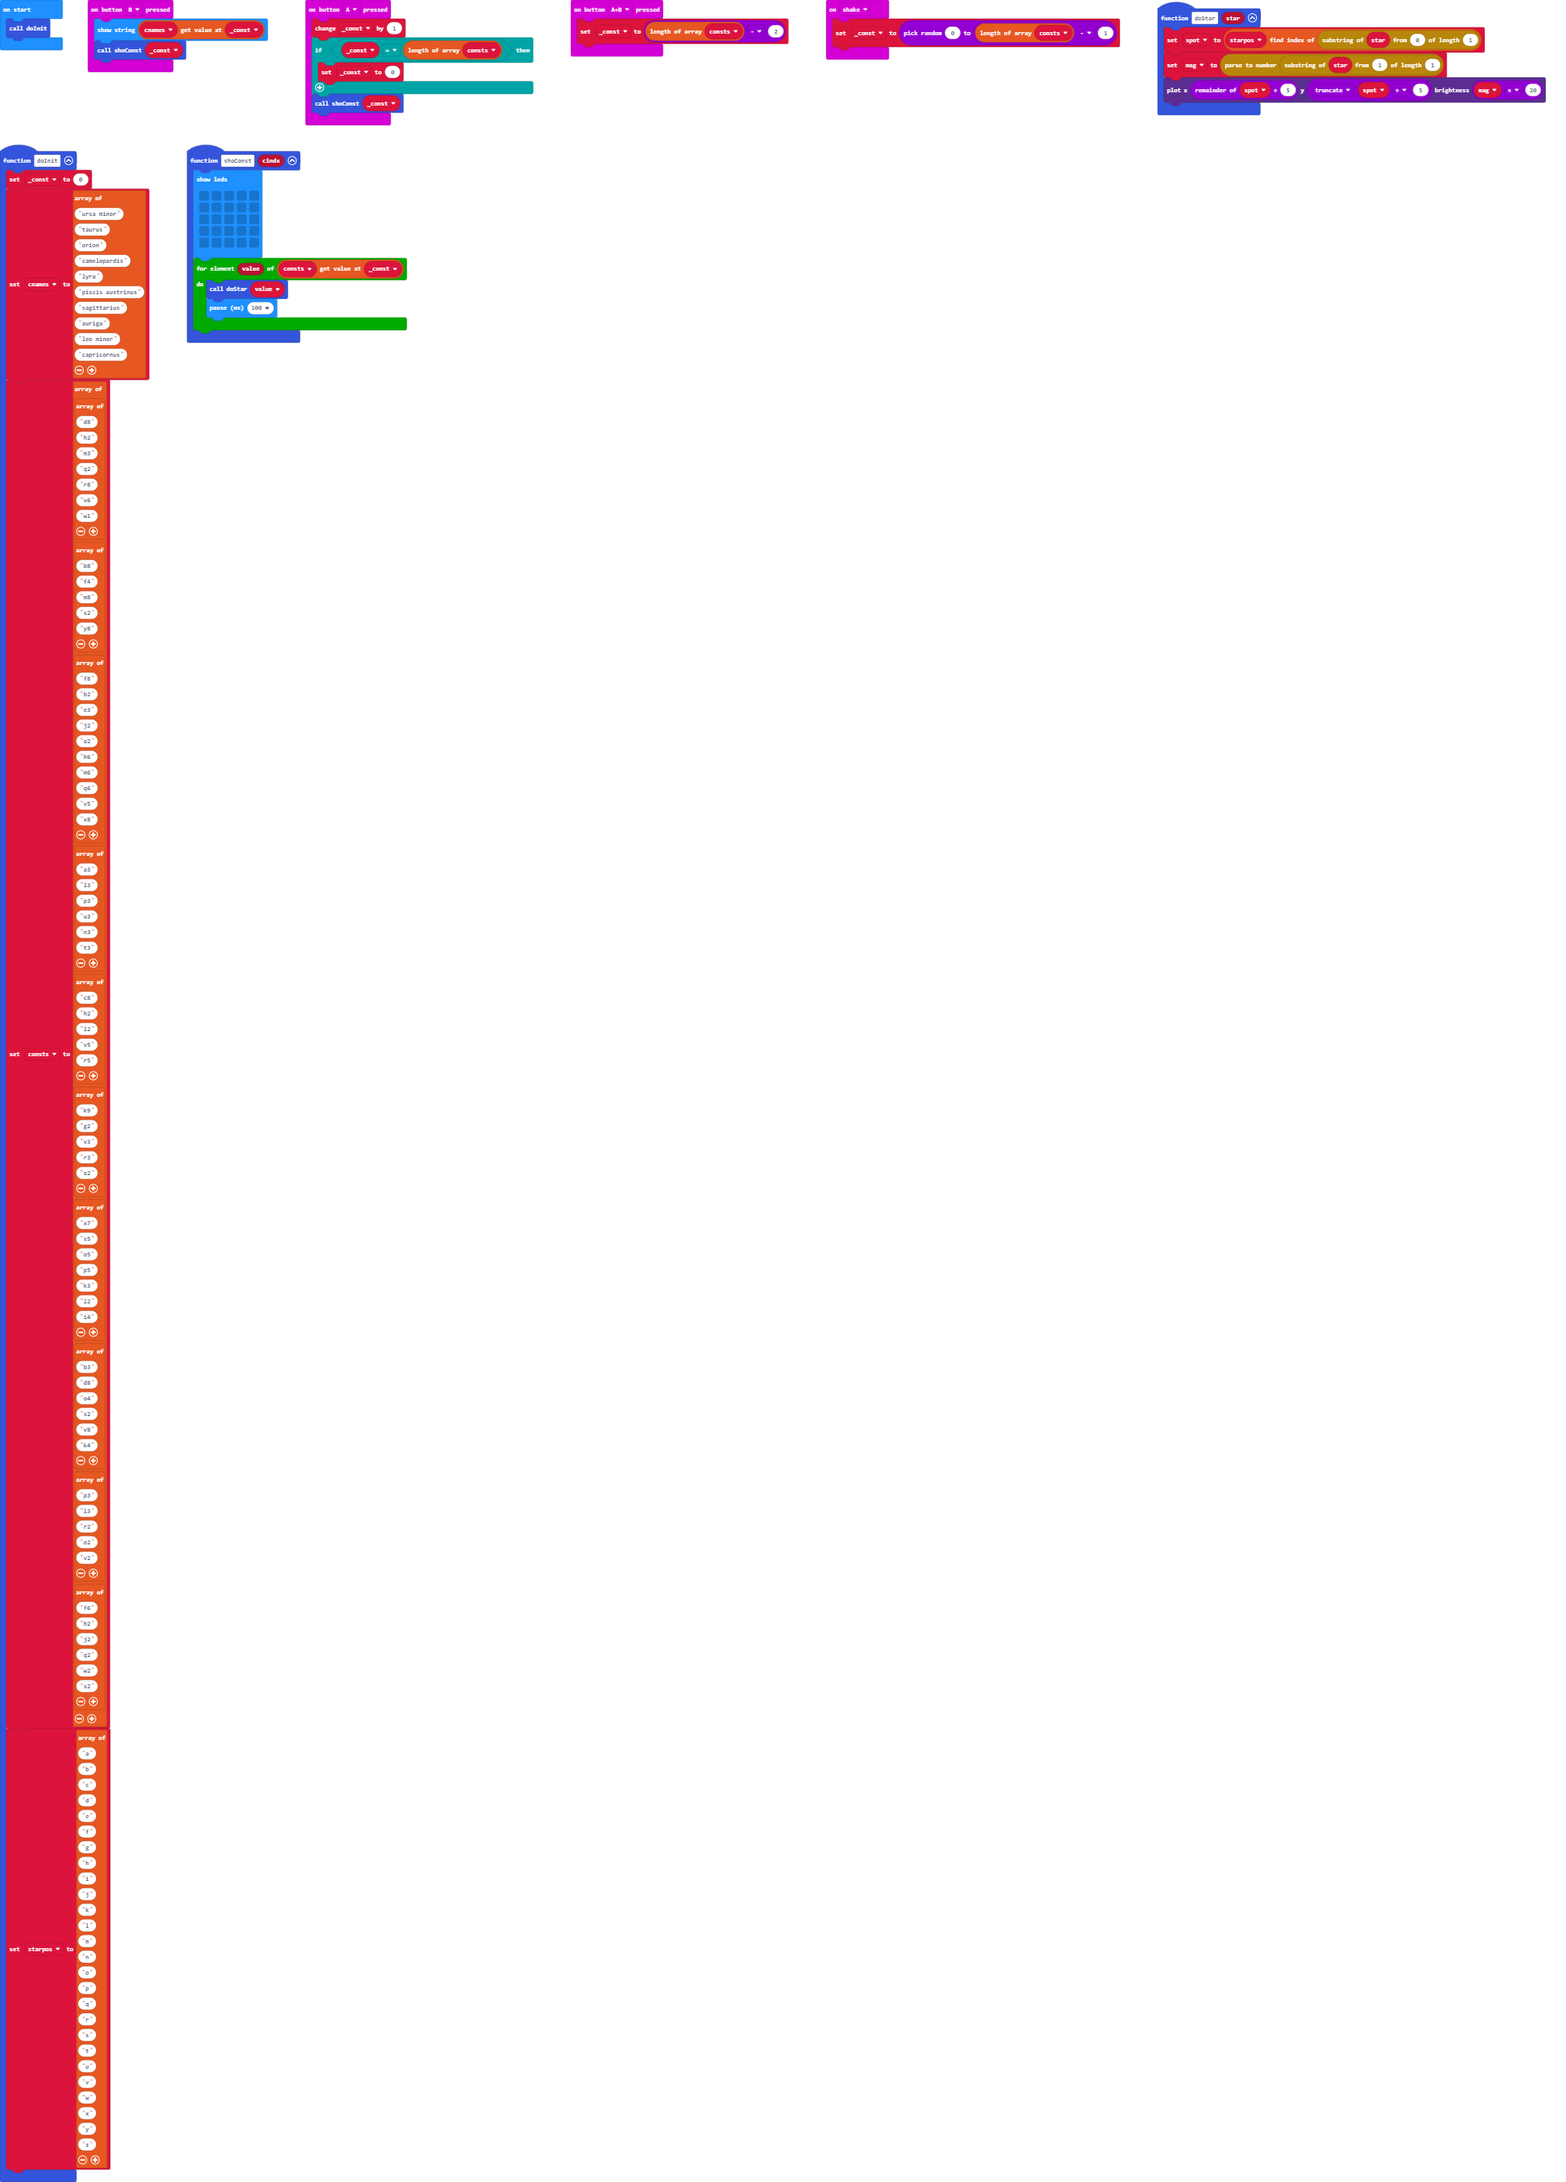
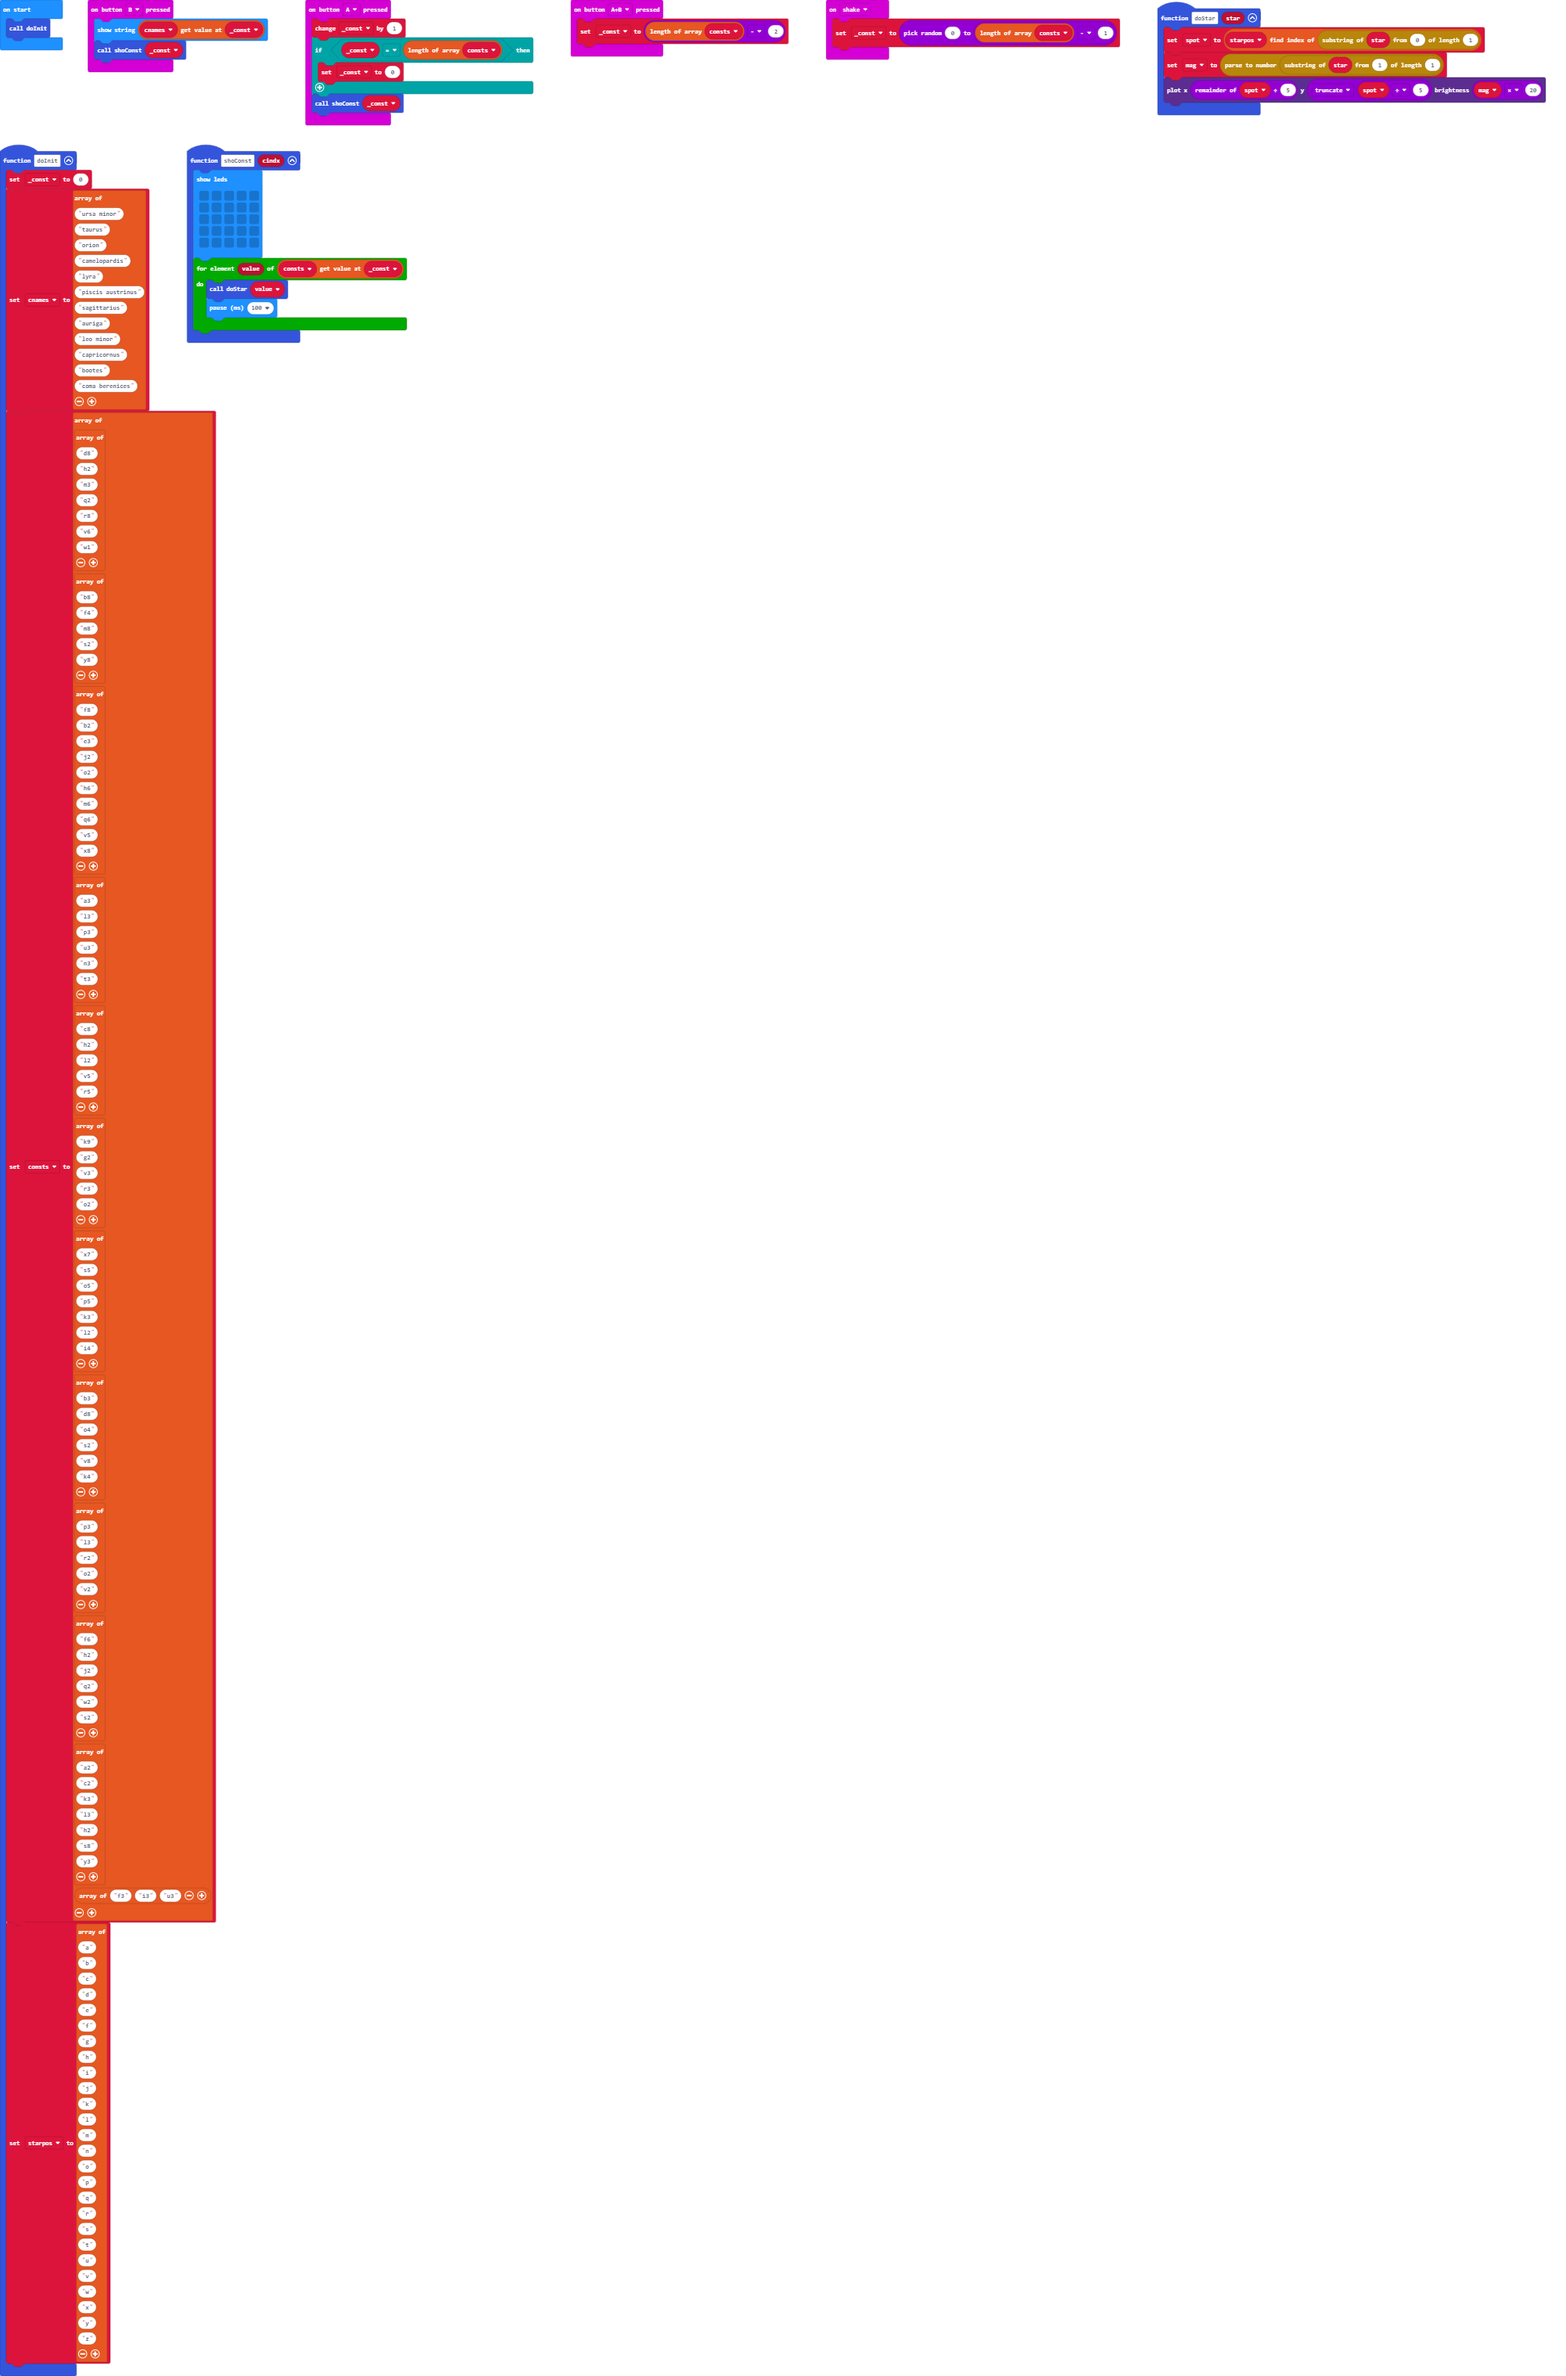
Update main.blocks, main.ts

diff --git a/main.ts b/main.ts
@@ -10,7 +10,9 @@ function doInit () {
     "sagittarius",
     "auriga",
     "leo minor",
-    "capricornus"
+    "capricornus",
+    "bootes",
+    "coma berenices"
     ]
     consts = [
     [
@@ -94,7 +96,17 @@ function doInit () {
     "q2",
     "w2",
     "s2"
-    ]
+    ],
+    [
+    "a2",
+    "c2",
+    "k3",
+    "l3",
+    "h2",
+    "s8",
+    "y3"
+    ],
+    ["f3", "i3", "u3"]
     ]
     starpos = [
     "a",
